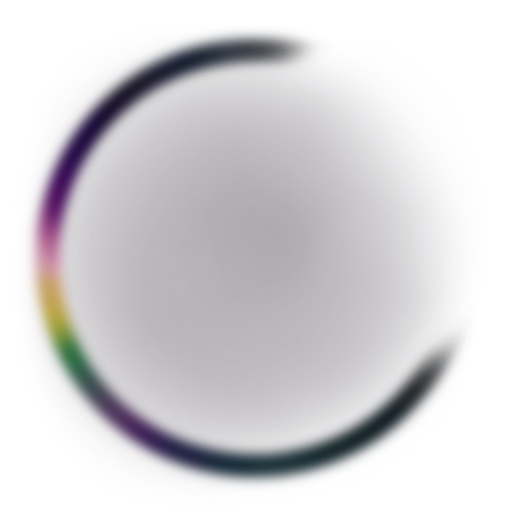
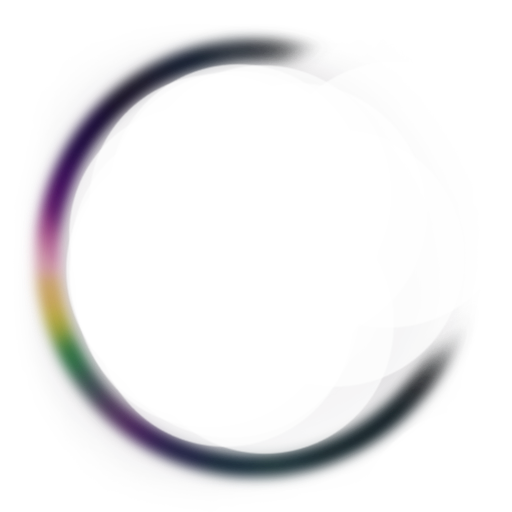
update

diff --git a/components/ModelPage/ModelPage.js b/components/ModelPage/ModelPage.js
@@ -16,7 +16,7 @@ export default function ModelPage() {
 
     const container = document.getElementById('three')
     const renderer = new THREE.WebGLRenderer({ antialias: true, alpha: true })
-    renderer.setPixelRatio(window.devicePixelRatio)
+    renderer.setPixelRatio(window.devicePixelRatio * 2)
     container.appendChild(renderer.domElement)
 
     const width = container.clientWidth,
@@ -100,6 +100,18 @@ export default function ModelPage() {
                 child.material.color = new THREE.Color(0xffffff)
                 child.material.metalness = 0.7
                 child.material.roughness = 0.2
+                //map denoise
+                child.material.map.encoding = THREE.sRGBEncoding
+                child.material.map.anisotropy = 16
+                //sample
+                child.material.map.minFilter = THREE.NearestFilter
+                child.material.map.magFilter = THREE.NearestFilter
+                child.material.map.premultiplyAlpha = false;
+
+                child.material.alphaTest = 0.01
+                child.material.transparent = true
+                //apply
+                child.material.needsUpdate = true
               }
             })
             resolve(gltf)
@@ -139,7 +151,7 @@ export default function ModelPage() {
       //from left to right
       const bubbleCount = 100
       const bubbleSize = 0.2
-      const bubbleSpeed = 0.005
+      const bubbleSpeed = 0.015
       //list of bubbles
       const bubbles = []
       const bubbleOpacity = []
@@ -197,7 +209,7 @@ export default function ModelPage() {
           if (bubble.position.x > -2) {
             bubble.position.x = -9
             //reset opacity
-            bubble.material.opacity = 0
+            bubbleOpacity[i] = 0
             //new speed
             bubbleSpeeds[i] = bubbleSpeed + Math.random() * 0.004
             //new z
@@ -228,7 +240,7 @@ export default function ModelPage() {
       //from left to right
       const bubbleCount = 25
       const bubbleSize = 0.7
-      const bubbleSpeed = 0.005
+      const bubbleSpeed = 0.015
       //list of bubbles
       const bubbles = []
       const bubbleOpacity = []
@@ -268,9 +280,9 @@ export default function ModelPage() {
           const bubble = bubbles[i]
           bubble.position.x += bubbleSpeeds[i]
 
-          if (bubbleOpacity[i] < 1 && bubble.position.x < 7) {
+          if (bubbleOpacity[i] < 1 && bubble.position.x < 6) {
             bubbleOpacity[i] += 0.005
-          } else if (bubble.position.x > 7) {
+          } else if (bubble.position.x > 6) {
             bubbleOpacity[i] -= 0.01
           }
 
@@ -283,7 +295,7 @@ export default function ModelPage() {
           if (bubble.position.x > 8) {
             bubble.position.x = 2
             //reset opacity
-            bubble.material.opacity = 0
+            bubbleOpacity[i] = 0
             //new speed
             bubbleSpeeds[i] = bubbleSpeed + Math.random() * 0.004
             //new z
